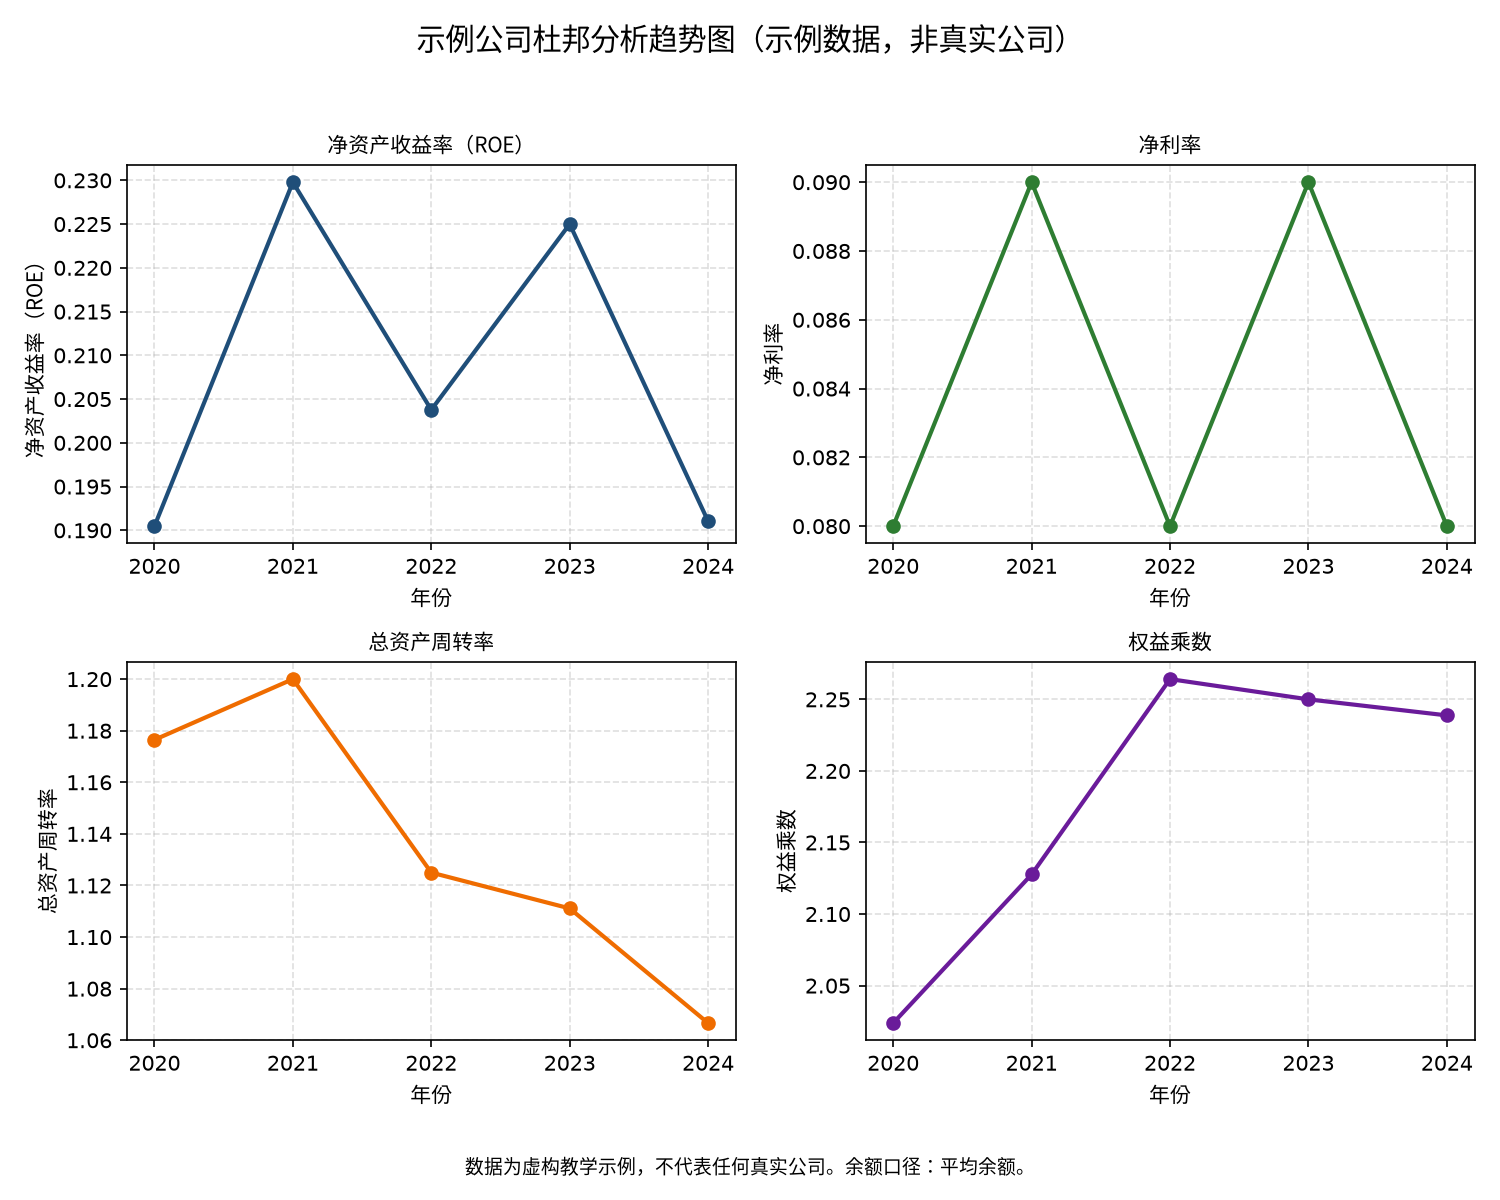
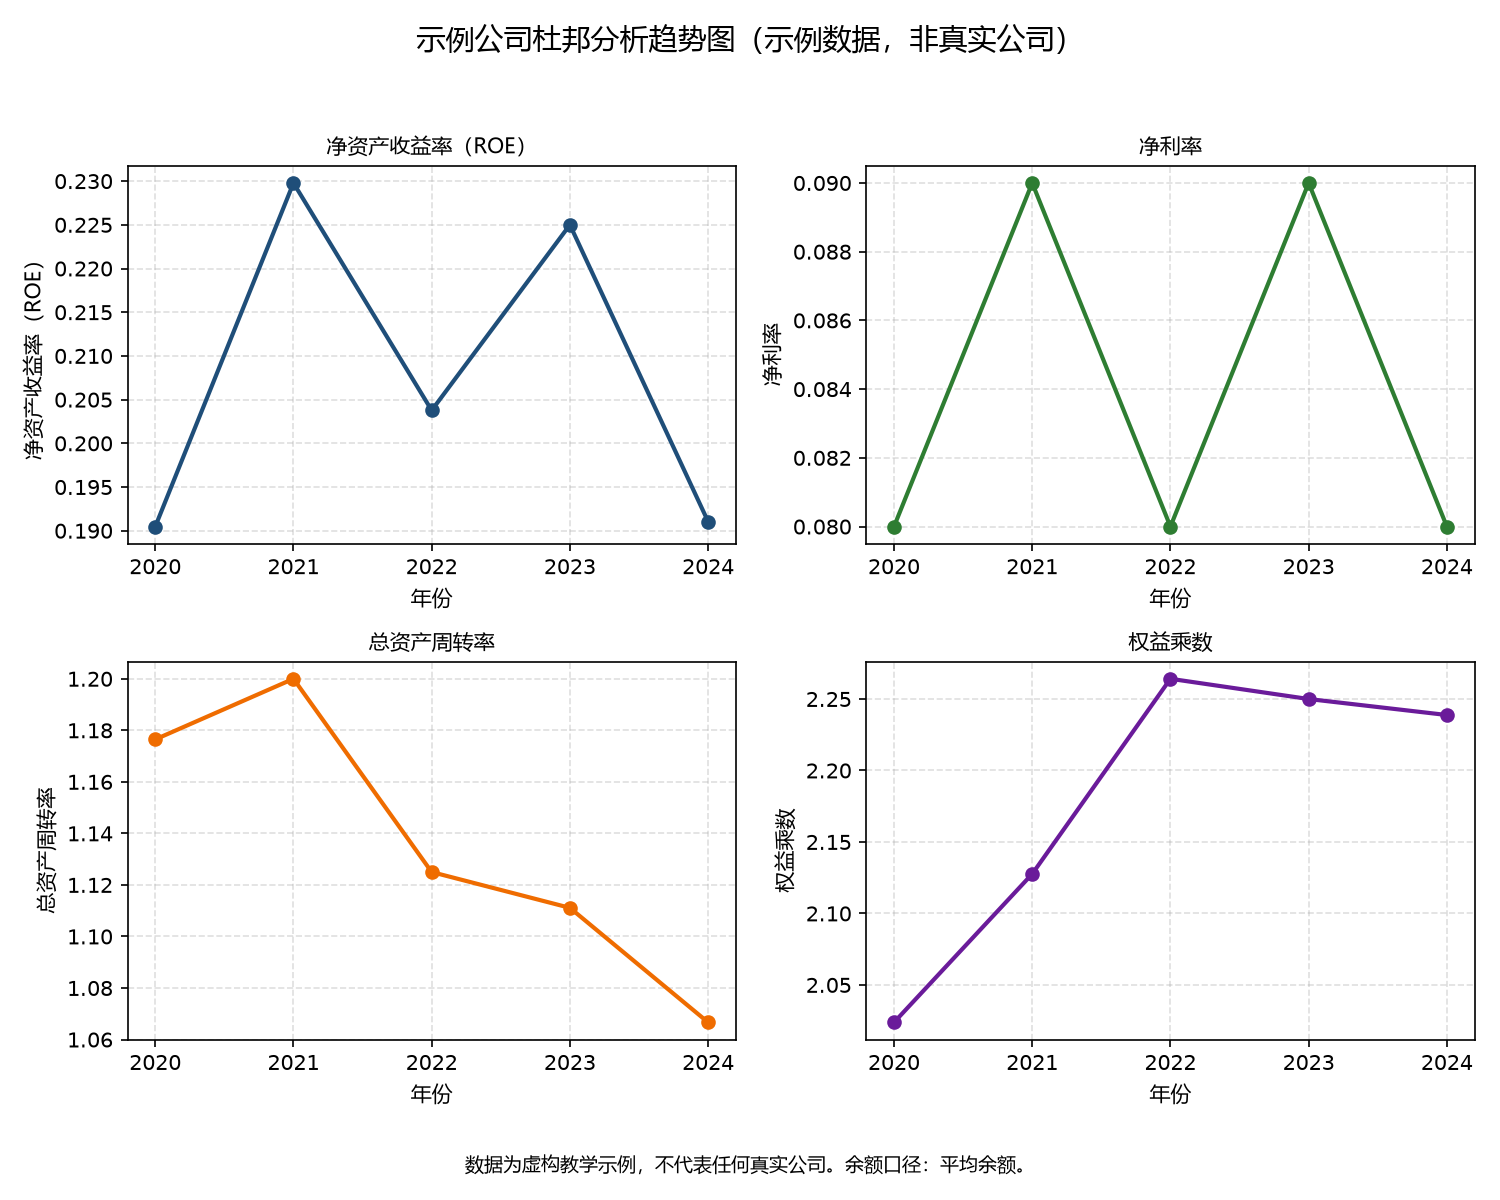
补充网页版使用说明，更新趋势图输出

diff --git a/README.md b/README.md
@@ -6,6 +6,11 @@
 
 面向刚学会函数和 `if` 的读者。代码按步骤拆成几个短函数，注释主要写“为什么要这样做”，而不是把公式再抄一遍。
 
+## 用网页打开（推荐）
+
+这个工具也提供一个不需要安装、双击就能看的页面：用浏览器打开项目里的 `index.html` 即可。页面会自动载入虚构示例数据，也可以改选「期末余额」，或上传自己的 CSV。计算口径与命令行版相同。页面不访问网络，也不向外发送数据。
+
+
 ## 杜邦分析是什么
 
 净资产收益率（ROE）衡量：股东投入的每一块钱，这一年赚回了多少。直接写法是：
